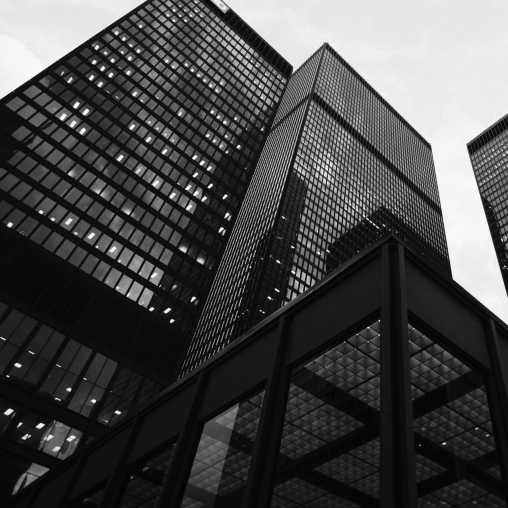
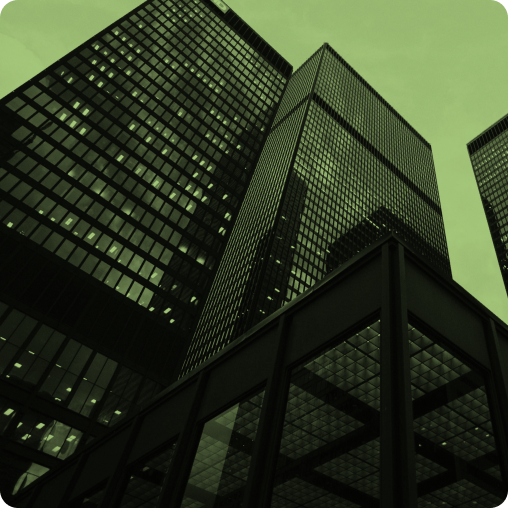
<feat(aboutus): whoweare one unresp>

diff --git a/src/components/aboutus/WhoWeAre.js b/src/components/aboutus/WhoWeAre.js
@@ -1,4 +1,5 @@
 import { FaPlay } from "react-icons/fa";
+import ImgF from "../global/ImgF";
 
 export default function WhoWeAre() {
   return (
@@ -10,14 +11,24 @@ export default function WhoWeAre() {
             <h1>{"Who Are We?"}</h1>
           </div>
           {/* 20+ Clients */}
-          <div className="w-full h-[75%] flex flex-col items-start bg-[#ff8484] rounded-[10px] text-lightWhite p-[40px]">
-            <div className="w-full flex flex-col font-avenirBlack">
-              <h1 className="text-[124px] -mt-[30px]">{"20+"}</h1>
-              <h1 className="text-[36px] -mt-[60px] ml-[4px]">{"Clients"}</h1>
+          <div className="relative w-full h-[75%] flex flex-col items-start rounded-[10px] text-lightWhite p-[40px]">
+            {/* Background */}
+            <div className="absolute -z-[1] top-0 left-0 w-full h-full rounded-[10px] overflow-clip">
+              <ImgF
+                src="/img/aboutus/WhatWeAre/leftcontent.png"
+                alt="180dc who we are leftcontent"
+              />
             </div>
-            <div className="w-full font-latoRegular">
+            {/* Content */}
+            <div className="w-full h-[60%] flex flex-col font-avenirBlack">
+              <h1 className="text-[144px]/[110px]">{"20+"}</h1>
+              <h1 className="text-[40px]/[30px] ml-[4px]">{"Clients"}</h1>
+            </div>
+            <div className="w-full h-[40%] flex items-end font-latoRegular">
               <p className="text-[14px] ml-[4px]">
-                {"Successfully assisted both national and international enterprises to tackle their problems and reach their respective goals."}
+                {
+                  "Successfully assisted both national and international enterprises to tackle their problems and reach their respective goals."
+                }
               </p>
             </div>
           </div>
@@ -30,11 +41,21 @@ export default function WhoWeAre() {
             }
           </div>
           {/* Video */}
-          <div className="relative w-full h-[75%] flex items-start bg-[#ff8484] rounded-[10px]">
-            <div className="absolute p-[8px] -right-[20px] -bottom-[20px] rounded-full w-[100px] h-[100px] bg-black">
-              <div className="rounded-full bg-lightWhite w-full h-full p-[20px] pl-[28px]">
-                <FaPlay className="w-full h-full text-primary" />
-              </div>
+          <div className="relative w-full h-[75%] flex items-start rounded-[10px]">
+            {/* Background Content */}
+            <div className="absolute -z-[1] top-0 left-0 w-full h-full rounded-[10px] overflow-clip">
+              <ImgF
+                src="/img/aboutus/WhatWeAre/rightcontent.png"
+                alt="180dc who we are rightcontent"
+              />
+            </div>
+            {/* Button */}
+            <div className="absolute p-[10px] -right-[10px] -bottom-[20px] rounded-full rounded-br-none w-[100px] h-[100px] bg-black">
+              <a href="#">
+                <div className="rounded-full bg-lightWhite w-full h-full p-[16px] pl-[24px]">
+                  <FaPlay className="w-full h-full text-primary" />
+                </div>
+              </a>
             </div>
           </div>
         </div>

diff --git a/src/components/global/Footer.js b/src/components/global/Footer.js
@@ -22,12 +22,12 @@ export default function Footer() {
 
   return (
     <div className="flex w-full bg-gradient-to-br from-black to-primary  rounded-tl-[20px] rounded-tr-[20px] p-[3px]">
-      <div className="flex flex-col w-full bg-black rounded-tl-[20px] rounded-tr-[20px] px-[27px] py-[35px] pb-[2px] gap-[16px]">
+      <div className="flex flex-col w-full bg-black rounded-tl-[20px] rounded-tr-[20px] px-[47px] py-[35px] pb-[2px] gap-[16px]">
         {/* Contents */}
         <div className="flex w-full gap-[60px] text-lightWhite">
           {/* Logo */}
           <div className="w-2/12">
-            <ImgF src="/img/footerlogo180dc.png" alt="logo footer 180dc" action={() => {router.push(navLinks.Home)}} />
+            <ImgF src="/img/global/footerlogo180dc.png" alt="logo footer 180dc" action={() => {router.push(navLinks.Home)}} />
           </div>
           {/* Office */}
           <div className="flex flex-col w-3/12 gap-[8px]">

diff --git a/src/components/global/Navbar.js b/src/components/global/Navbar.js
@@ -52,7 +52,7 @@ export default function Navbar() {
   return (
     <div
       className={
-        "fixed top-0 left-0 z-[999] flex w-full py-[10px] px-[30px] transition-transform duration-[300ms] " +
+        "fixed top-0 left-0 z-[999] flex w-full py-[20px] px-[50px] transition-transform duration-[300ms] " +
         (scroll !== "down" ? "" : "translate-y-[-200%]")
       }
     >
@@ -60,7 +60,7 @@ export default function Navbar() {
         {/* Logo */}
         <div className="flex w-[5%]">
           <ImgF
-            src="/img/logo180dctrns.png"
+            src="/img/global/logo180dctrns.png"
             alt="logo 180dc"
             action={() => {
               router.push(navLinks.Home);

diff --git a/src/app/layout.js b/src/app/layout.js
@@ -11,7 +11,11 @@ export const metadata = {
 export default function RootLayout({ children }) {
   return (
     <html lang="en">
-      <body className={"bg-black"}>
+      <body className={"relative h-fit w-fit"}>
+        {/* Background */}
+        <div className="absolute -z-[999] top-0 left-0 w-full h-full bg-black" />
+
+        {/* Content */}
         <Navbar />
         {children}
         <Footer />

diff --git a/src/app/page.js b/src/app/page.js
@@ -2,7 +2,7 @@ import DesignSystem from "@/components/DesignSystem";
 
 export default function Home() {
   return (
-    <main className="flex min-h-screen w-full flex-col items-center my-[100px] p-[20px]">
+    <main className="flex min-h-screen w-full flex-col items-center my-[100px] p-[30px]">
       <DesignSystem />
     </main>
   )

diff --git a/src/app/(pages)/aboutus/page.js b/src/app/(pages)/aboutus/page.js
@@ -6,7 +6,7 @@ import LookForward from "@/components/aboutus/LookForward";
 
 export default function AboutUs() {
   return (
-    <main className="px-[30px]">
+    <main className="px-[50px]">
       <WhoWeAre />
       <VisMis />
       <Services />

diff --git a/src/components/global/ImgF.js b/src/components/global/ImgF.js
@@ -1,3 +1,5 @@
+"use client"
+
 import Image from "next/image";
 
 export default function ImgF({ src, alt, action = "", className = "" }) {
